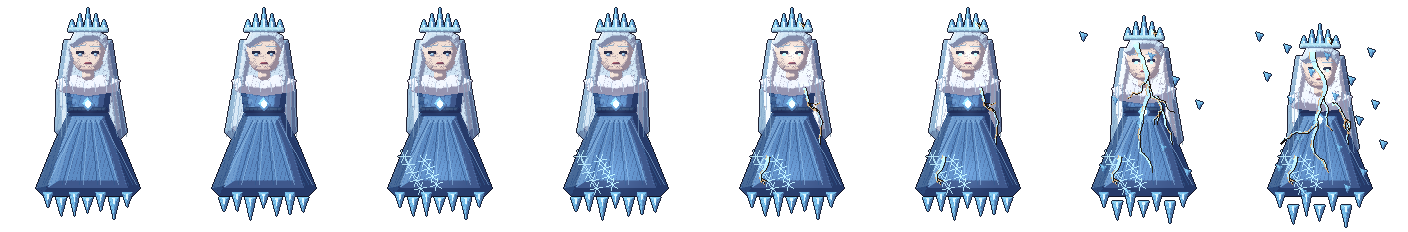
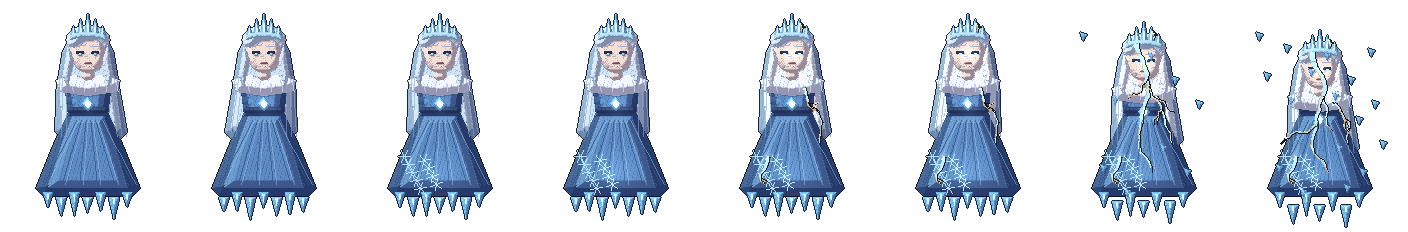
Seat Silvia's crown on a rounded head instead of floating above it
Claude-Session: https://claude.ai/code/session_015bTXkb4q3SzK7wZ8JdbtYP

diff --git a/tools/mkbossrig.py b/tools/mkbossrig.py
@@ -1398,6 +1398,7 @@ FW_W, FW_H = 44, 58                                           # 게임 entity/bo
 
 def witch_head(F, cx, hy, st, look=0):
     """머리 — 얼굴 · 앞머리 · 얼음 왕관(st 2: 금 · 눈이 빛난다)"""
+    F.part('cloth', HAIR, bevel=1.5).ell(cx, hy - 3.0, 5.4, 3.6)                        # 정수리 — 얼굴 뒤에 먼저(왕관이 그 위에 얹힌다 · 떠 있던 틈을 메운다)
     F.part('clay', SKIN, bevel=1.5).ell(cx, hy, 4.4, 5.2)
     F.part('clay', '#e6cec6', bevel=0.5).ell(cx, hy + 4.2, 2.0, 0.6)                       # 턱 그늘(옅게 — 짙으면 수염처럼 보였다)
     for s2 in (-1, 1):                                                                   # 눈 — 길게 내리깐 눈 · 옅은 하늘빛 눈동자
@@ -1407,13 +1408,14 @@ def witch_head(F, cx, hy, st, look=0):
         fine(F, (ex - 1.4, hy - 1.4), (ex + 1.2, hy - 1.7 + s2 * 0.2), HAIR_D, 220)       # 가는 눈썹
     F.part('flesh', '#b86a78', bevel=0.4).box(cx - 1.0, hy + 2.6, 2.0, 0.6, 0.3)         # 입술
     F.part('cloth', HAIR, bevel=1.5).poly([(cx - 5, hy - 2), (cx - 3, hy - 5.6), (cx + 1, hy - 6), (cx + 4.8, hy - 4), (cx + 5, hy), (cx + 2.5, hy - 3), (cx - 1, hy - 2.6), (cx - 3.5, hy - 1)])
+    band = lambda dx: hy - 4.6 + 0.9 * (dx / 4.6) ** 2                                   # 머리 곡선을 따라 휜 띠
     for k in range(5):                                                                   # 왕관 — 다섯 얼음 가시(가운데가 높다)
-        x = cx - 4 + k * 2; hgt = 3 + (2 - abs(k - 2)) * 1.6
-        F.part('ice', ICE_E, bevel=0.8).poly([(x - 1.1, hy - 5.4), (x, hy - 5.4 - hgt), (x + 1.1, hy - 5.4)])
-        F.part('glow', ICE_C, glow=True).poly([(x - 0.4, hy - 5.6), (x, hy - 5.0 - hgt * 0.8), (x + 0.3, hy - 5.6)])
-    F.part('ice', '#a8dcf0', bevel=0.6).box(cx - 5, hy - 6.2, 10, 1.3, 0.5)
+        dx = -3.6 + k * 1.8; x = cx + dx; hgt = 2.6 + (2 - abs(k - 2)) * 1.5; by = band(dx)
+        F.part('ice', ICE_E, bevel=0.8).poly([(x - 1.0, by), (x, by - hgt), (x + 1.0, by)])
+        F.part('glow', ICE_C, glow=True).poly([(x - 0.35, by - 0.2), (x, by - hgt * 0.8), (x + 0.3, by - 0.2)])
+    F.part('ice', '#a8dcf0', bevel=0.6).poly([(cx + dx, band(dx) - 0.5) for dx in (-4.6, -2.3, 0, 2.3, 4.6)] + [(cx + dx, band(dx) + 0.8) for dx in (4.6, 2.3, 0, -2.3, -4.6)])
     if st >= 2:
-        crack(F, [(cx + 2, hy - 7.5), (cx + 2.6, hy - 6.0)], 0.3, FROSTG)
+        crack(F, [(cx + 2, hy - 7.2), (cx + 2.5, hy - 5.2)], 0.3, FROSTG)
         F.glow(cx, hy + 0.5, 4, FROSTG, 0.35)
 
 
@@ -1429,8 +1431,8 @@ def witch_body(f):
     hair = HAIR_L if st >= 2 else HAIR
     # 뒷머리 — 어깨 뒤로 허리까지 흘러내린다(숨마다 끝이 흔들린다)
     sway = (-0.8 if b else 0.8)
-    F.part('cloth', HAIR_D, bevel=2).poly([(cx - 6, hy - 3), (cx + 6, hy - 3), (cx + 8, hy + 10), (cx + 9 + sway, hy + 20), (cx + 5 + sway, hy + 24), (cx - 5 + sway, hy + 24), (cx - 9 + sway, hy + 20), (cx - 8, hy + 10)])
-    F.part('cloth', hair, bevel=1.5).poly([(cx - 5, hy - 3), (cx + 5, hy - 3), (cx + 7, hy + 10), (cx + 7.5 + sway, hy + 19), (cx + 4 + sway, hy + 22), (cx - 4 + sway, hy + 22), (cx - 7.5 + sway, hy + 19), (cx - 7, hy + 10)])
+    F.part('cloth', HAIR_D, bevel=2).poly([(cx - 6.4, hy), (cx - 4.6, hy - 3.6), (cx, hy - 4.6), (cx + 4.6, hy - 3.6), (cx + 6.4, hy), (cx + 8, hy + 10), (cx + 9 + sway, hy + 20), (cx + 5 + sway, hy + 24), (cx - 5 + sway, hy + 24), (cx - 9 + sway, hy + 20), (cx - 8, hy + 10)])
+    F.part('cloth', hair, bevel=1.5).poly([(cx - 5.4, hy), (cx - 3.8, hy - 3), (cx, hy - 3.8), (cx + 3.8, hy - 3), (cx + 5.4, hy), (cx + 7, hy + 10), (cx + 7.5 + sway, hy + 19), (cx + 4 + sway, hy + 22), (cx - 4 + sway, hy + 22), (cx - 7.5 + sway, hy + 19), (cx - 7, hy + 10)])
     for k in range(3):                                                                   # 머릿결 — 얼굴 양옆에만(얼굴 위로 줄이 그어졌다)
         for s2 in (-1, 1):
             fine(F, (cx + s2 * (5.6 + k * 0.8), hy + 6), (cx + s2 * (6.4 + k * 1.2) + sway, hy + 21), HAIR_D, 150)
@@ -1641,6 +1643,7 @@ def void_parts(f):
             for k in range(4):
                 fine(F, (20, 20.5 + k * 2.8), (26.5, 20.5 + k * 2.8), '#120c1e', 220)
     return F.render()
+
 
 
 RIGS = {

diff --git a/docs/code-history.md b/docs/code-history.md
@@ -2483,3 +2483,5 @@
 - 정체성(계획): **망토가 걷힌 자리에 별** — 막 1 · 2 에 찢긴 틈과, 기술을 쓰는 동안 머리 뒤로 갈라지는 틈 안에 별밭(반짝이는 별 · 흐르는 성운)을 그린다.
 - 처음 그림은 장대에 건 극장 휘장 같았다 → 장대 · 고리를 없애고 위를 연기처럼 어둠에 풀리게(가장자리 없이 번지는 그늘 — 네모 띠는 끝이 보였다), 골 간격을 고르지 않게.
   가면은 둥근 눈구멍이 귀엽게 보여(판다) 안으로 내리꽂힌 비스듬한 눈 틈 · 길쭉한 해골로. 쉬는 손은 허공에 떠 보여 망토 구멍에서 늘어져 망토를 짚게 했다.
+- 덧붙임(2026-10-26 사용자 지적): 왕관 띠가 머리 위에 틈을 두고 떠서 양옆으로 튀어나왔다(정수리가 평평한 네모였다) → 얼굴 뒤에 둥근 정수리를 먼저 깔고,
+  띠를 머리 곡선을 따라 휘게 · 좁게, 뒷머리 위도 둥글게.
